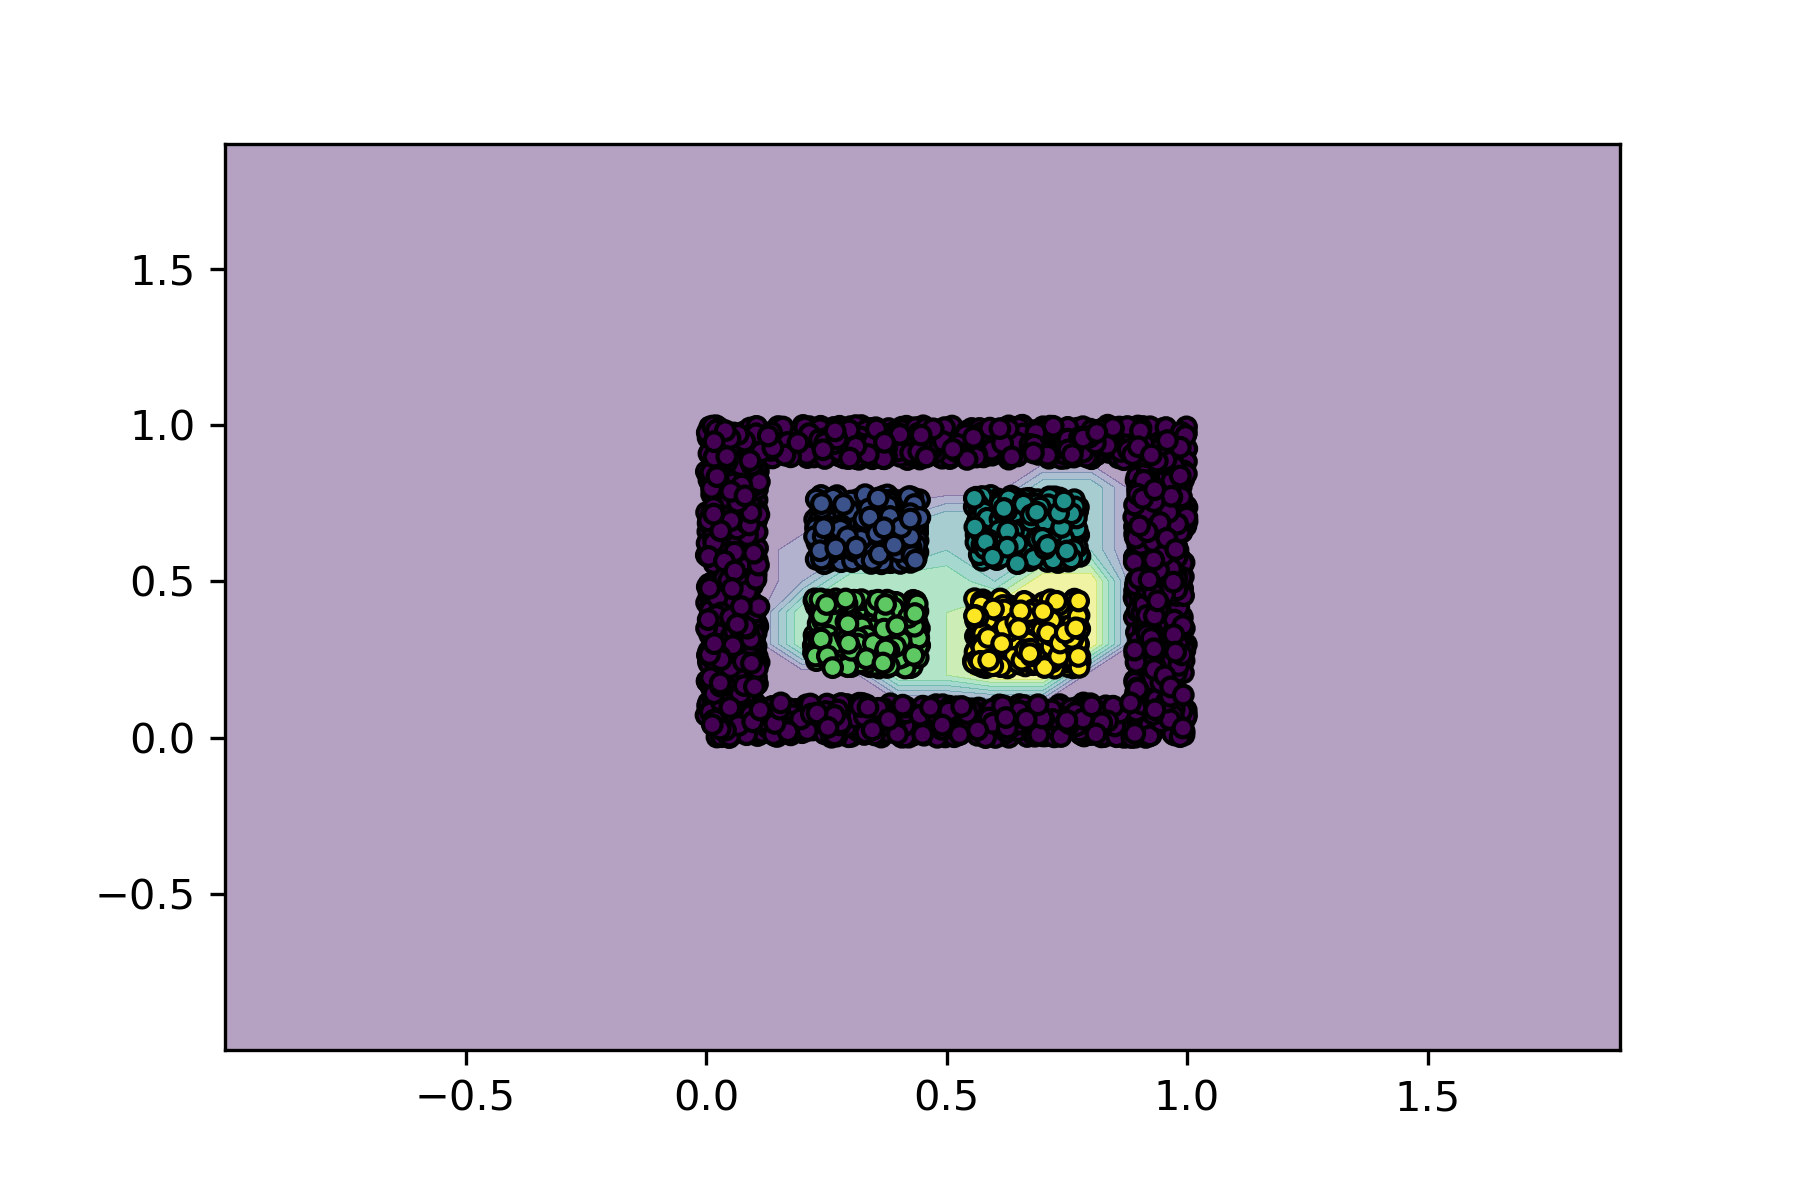
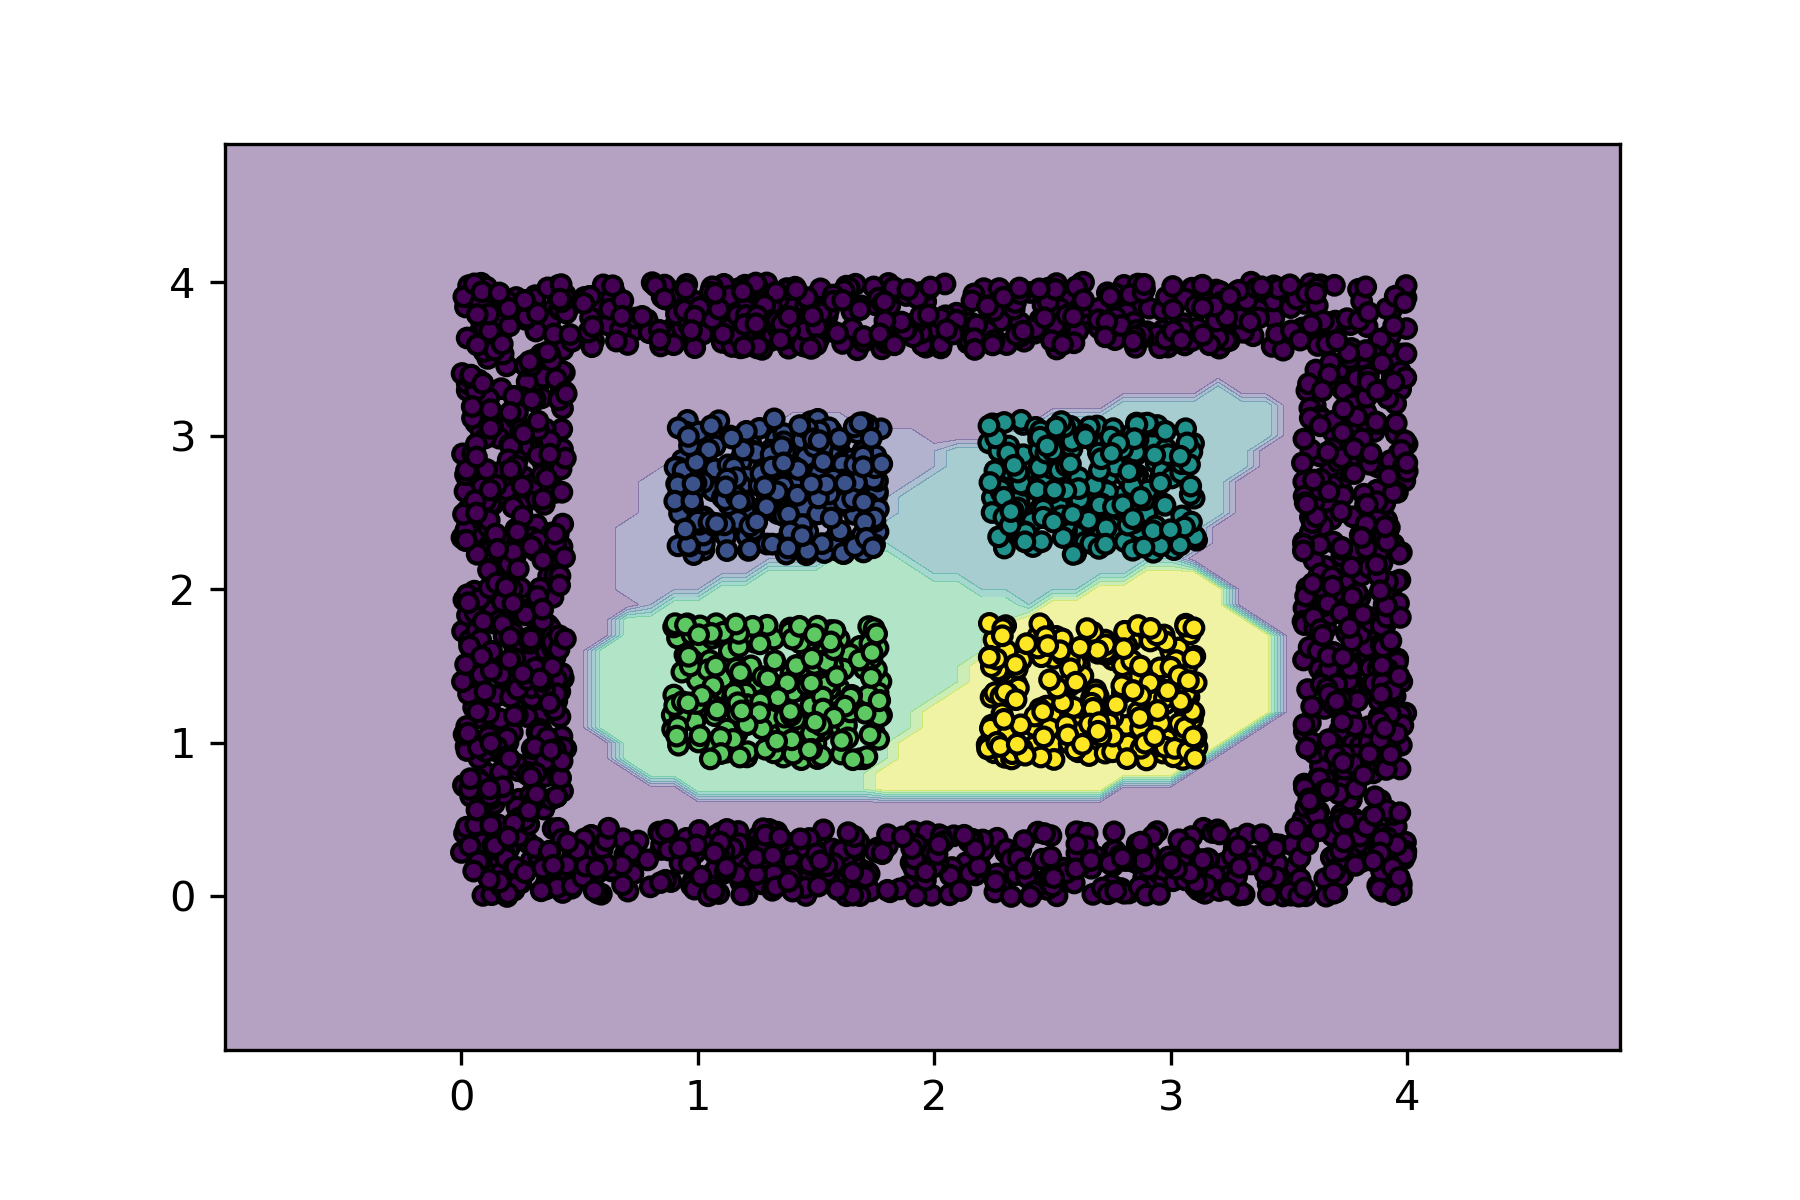
better architecture for 'simple' dataset

diff --git a/solutions_classification.py b/solutions_classification.py
@@ -19,20 +19,20 @@ def process_classification_dataset(name, clf, normalize=False, size = 100, datas
     X_test, y_test = test.iloc[:, :-1], test.cls
 
     if normalize:
-        X_train /= np.max(np.abs(X_train))
-        X_test /= np.max(np.abs(X_test))
+        X_train /= np.max(np.abs(X_train))/4
+        X_test /= np.max(np.abs(X_test))/4
 
     clf.fit(X_train, y_train)
     print(clf.score(X_test, y_test))
 
-    joblib.dump(clf, \
-        f'results/classification/{name}-{size}-clf.joblib')
-    vis.plot_classification_result(clf, \
-        X_test.x, X_test.y, y_test, \
-        save_path = f'results/classification/{name}-{size}-result.png')
-    vis.plot_train_test_error(clf, \
-        X_train, y_train, X_test, y_test, \
-        save_path = f'results/classification/{name}-{size}-error.png')
+    # joblib.dump(clf, \
+    #     f'results/classification/{name}-{size}-clf.joblib')
+    # vis.plot_classification_result(clf, \
+    #     X_test.x, X_test.y, y_test, \
+    #     save_path = f'results/classification/{name}-{size}-result.png')
+    # vis.plot_train_test_error(clf, \
+    #     X_train, y_train, X_test, y_test, \
+    #     save_path = f'results/classification/{name}-{size}-error.png')
 
 # %% circles
 clf = MLPClassifier(activation_function = \
@@ -65,10 +65,10 @@ process_classification_dataset('noisyXOR', clf)
 clf = MLPClassifier(activation_function = \
         activation_functions.sigmoid, \
     error_function = error_functions.cross_entropy, \
-    hidden_layers = [5, 5, 3], bias = True, batch_portion = 0.5, \
+    hidden_layers = [], bias = True, batch_portion = 0.5, \
     num_iterations = 40000, eta = 0.1, moment = 0)
 
-process_classification_dataset('simple', clf, \
+process_classification_dataset('simple', clf, size=1000, \
     datasets_path_format='data/classification/data.{}.{}.{}.csv')
 
 # %% three_gauss
